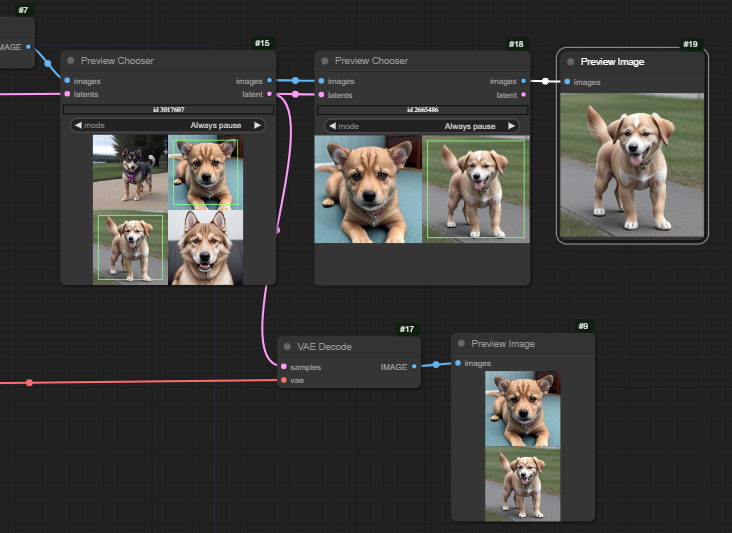
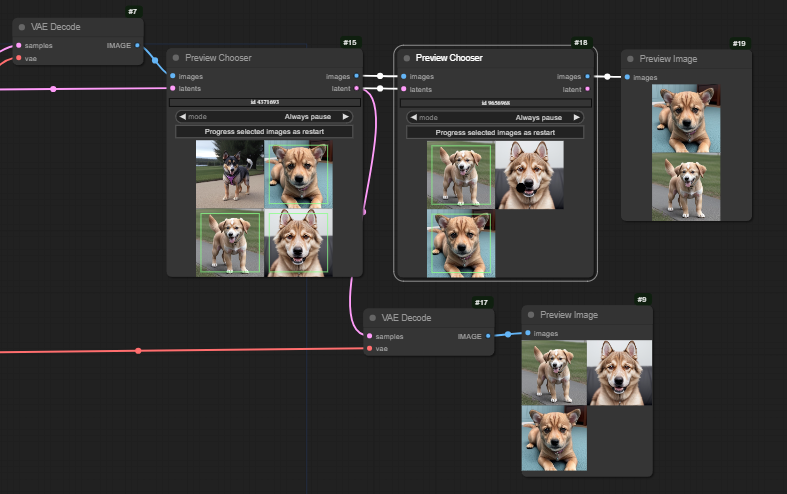
2.5.2 SIMPLE CLICK

diff --git a/js/image_chooser.js b/js/image_chooser.js
@@ -4,14 +4,27 @@ import { api } from "../../../scripts/api.js";
 import { restart_from_here } from "./image_chooser_prompt.js";
 import { hud, FlowState } from "./image_chooser_hud.js";
 import { send_cancel, send_message } from "./image_chooser_messaging.js";
-import { display_preview_images, additionalDrawBackground } from "./image_chooser_preview.js";
+import { display_preview_images, additionalDrawBackground, click_is_in_image } from "./image_chooser_preview.js";
+
+function buttonPressed() {
+    if (FlowState.paused_here(this.node.id) && this.node?.selected?.size>0) {
+        send_message(this.node.widgets[0].value, [...this.node.selected]); 
+    }
+    if (FlowState.idle() && this.node?.selected?.size>0) {
+        restart_from_here(this.node.id).then(() => {send_message(this.node.widgets[0].value, [...this.node.selected])});
+    }
+}
 
 app.registerExtension({
 	name: "cg.custom.image_chooser",
     setup() {
         const draw = LGraphCanvas.prototype.draw;
         LGraphCanvas.prototype.draw = function() {
-            hud.update();
+            if (hud.update()) {
+                app.graph._nodes.forEach((node)=> {
+                    if (node.send_button_widget) { node.send_button_widget.updateLabel(); }
+                })
+            }
             draw.apply(this,arguments);
         }
 
@@ -33,89 +46,68 @@ app.registerExtension({
         }
         api.addEventListener("early-image-handler", earlyImageHandler);
     },
+
     async nodeCreated(node) {
         if (node?.comfyClass === "Preview Chooser") {
+            /* Don't allow imageIndex to be set - this stops images jumping to the front when clicked */
             Object.defineProperty(node, 'imageIndex', {
                 get : function() { return null; },
-                set : function( v ) {}
+                set : function( v ) { }
             })
+            /* A property defining the top of the image when there is just one */
+            Object.defineProperty(node, 'imagey', {
+                get : function() { return this.widgets[this.widgets.length-1].last_y+LiteGraph.NODE_WIDGET_HEIGHT; }
+            })
+
+            /* Capture clicks */
+            const org_onMouseDown = node.onMouseDown;
+            node.onMouseDown = function( e, pos, canvas ) {
+                if (e.isPrimary) {
+                    const i = click_is_in_image(node, pos);
+                    if (i>=0) { this.imageClicked(i); }
+                }
+                return (org_onMouseDown && org_onMouseDown.apply(this, arguments));
+            }
+
+            /*
+            node.buttonPressed = function() {
+                if (FlowState.paused_here(this.node.id) && this.node?.selected?.size>0) {
+                    send_message(this.node.widgets[0].value, [...this.node.selected]); 
+                } else if (FlowState.idle() && this.node?.selected?.size>0) {
+                    restart_from_here(this.node.id).then(() => {send_message(this.node.widgets[0].value, [...this.node.selected])});
+                } 
+            }*/
+
+            /* The button */
+            node.send_button_widget = node.addWidget("button", "", "", buttonPressed)
+            node.send_button_widget.node = node;
+            node.send_button_widget.updateLabel = function () {
+                if (FlowState.paused_here(this.node.id) && this.node?.selected?.size>0) {
+                    this.name = (this.node?.selected?.size>1) ? "Progress selected images" : "Progress selected image";
+                } else if (FlowState.idle() && this.node?.selected?.size>0) {
+                    this.name = (this.node?.selected?.size>1) ? "Progress selected images as restart" : "Progress selected image as restart";
+                } else {
+                    this.name = "";
+                }
+            }
         }
     },
     async beforeRegisterNodeDef(nodeType, nodeData, app) {
         if (nodeType?.comfyClass==="Preview Chooser") {
+
+            /* Code to draw the boxes around selected images */
             const onDrawBackground = nodeType.prototype.onDrawBackground;
             nodeType.prototype.onDrawBackground = function(ctx) {
                 onDrawBackground.apply(this, arguments);
                 additionalDrawBackground(this, ctx);
             }
 
-            const getExtraMenuOptions = nodeType.prototype.getExtraMenuOptions;
-            nodeType.prototype.getExtraMenuOptions = function(_, options) {
-                getExtraMenuOptions?.apply(this,arguments);
-                var imageIndex = (this.imageIndex != null) ? this.imageIndex : this.overIndex;
-                if (!imageIndex && this?.imgs?.length==1) imageIndex = 0;
-                if ((FlowState.paused() && FlowState.here(this.id)) || 
-                    (FlowState.idle()   && this?.imgs?.length>0)) {
-                    if (imageIndex!=null) {
-                        options.unshift(null);
-                        if (this.selected.has(imageIndex) && this.imgs.length>1) {
-                            options.unshift(
-                                {
-                                    content: "Unselect",
-                                    callback: () => { this.selected.delete(imageIndex); this.setDirtyCanvas(true,true); }
-                                },
-                            )
-                        }
-                        if (!this.selected.has(imageIndex) && this.imgs.length>1) {
-                            options.unshift (
-                                {
-                                    content: "Select",
-                                    callback: () => { this.selected.add(imageIndex); this.setDirtyCanvas(true,true);  }
-                                }
-                            )
-                        }
-                        if ((this.selected.size > 0) && FlowState.paused_here(this.id) && this.imgs.length>1) {
-                            options.unshift(
-                                {
-                                    content: (this.selected.size>1) ? "Progress selected images" : "Progress selected image",
-                                    callback: () => { send_message(this.widgets[0].value, [...this.selected]);  }
-                                },
-                            )
-                        }
-                        if (FlowState.paused_here(this.id) && this.imgs.length==1) {
-                            options.unshift(
-                                {
-                                    content: "Progress image" ,
-                                    callback: () => { send_message(this.widgets[0].value, [0]);  }
-                                },
-                            )
-                        }
-                        if ((this.selected.size > 0) && FlowState.idle()) {
-                            options.unshift(
-                                {
-                                    content: (this.selected.size>1) ? "Progress selected images (as restart)" : "Progress selected image (as restart)",
-                                    callback: () => { restart_from_here(this.id).then(() => {send_message(this.widgets[0].value, [...this.selected])});  }
-                                },
-                            )
-                        }
-                        if (this.imgs.length==1 && FlowState.idle()) {
-                            options.unshift(
-                                {
-                                    content: "Progress image (as restart)",
-                                    callback: () => { restart_from_here(this.id).then(() => {send_message(this.widgets[0].value, [0])});  }
-                                },
-                            )
-                        }
-                        options.unshift(null);
-                    }
-                    options.unshift(
-                        {
-                            content: "Cancel this run",
-                            callback: () => { send_cancel(); }
-                        },
-                        null,
-                    );
-                }
+            /* Code to handle clicks on images */
+            nodeType.prototype.imageClicked = function (imageIndex) {
+                if (this.selected.has(imageIndex)) this.selected.delete(imageIndex);
+                else this.selected.add(imageIndex);
+                this.send_button_widget.updateLabel();
+                this.setDirtyCanvas(true,true); 
             }
         }
     },

diff --git a/js/image_chooser_hud.js b/js/image_chooser_hud.js
@@ -2,14 +2,8 @@ import { $el } from "../../../scripts/ui.js";
 import { send_cancel } from "./image_chooser_messaging.js";
 
 class HUD {
-
     constructor() {
         this.span = $el("span", { style: {}, textContent: "" });
-        this.the_cancel_button = $el("button", {
-            textContent: "Cancel",
-            onclick: () => {send_cancel();},
-            style: {  }
-        })
         this.hud = $el("div", {
             style: { 
                 "position": "fixed", 
@@ -20,11 +14,10 @@ class HUD {
                 "opacity":0.8,
             }},
             [
-                this.span, this.the_cancel_button
+                this.span
             ]
         )
         this.span.textContent = "Idle";
-        this.the_cancel_button.style.display = "none";
 
         document.body.append(this.hud);
         this.current_node_id = undefined;
@@ -33,7 +26,7 @@ class HUD {
     }
 
     update() {
-        if (app.runningNodeId==this.current_node_id) return;
+        if (app.runningNodeId==this.current_node_id) return false;
 
         this.current_node_id = app.runningNodeId;
         
@@ -44,13 +37,12 @@ class HUD {
                                             this.class_of_current_node === "Multi Latent Chooser" ||
                                             this.class_of_current_node === "Preview Chooser");
             this.span.textContent = `${FlowState.state()} in ${this.class_of_current_node} (${this.current_node_id}) `;
-            this.the_cancel_button.style.display = "inline";
         } else {
             this.class_of_current_node = undefined;
             this.current_node_is_chooser = false;
             this.span.textContent = "Idle";
-            this.the_cancel_button.style.display = "none";
         }
+        return true;
     }
 }
 
@@ -68,7 +60,7 @@ class FlowState {
         return (FlowState.paused() && FlowState.here(node_id))
     }
     static running() {
-        return (app.runningNodeId>=0);
+        return (!FlowState.idle());
     }
     static here(node_id) {
         return (app.runningNodeId==node_id);
@@ -76,8 +68,7 @@ class FlowState {
     static state() {
         if (FlowState.paused()) return "Paused";
         if (FlowState.running()) return "Running";
-        if (FlowState.idle()) return "Idle";
-        return "?";
+        return "Idle";
     }
 }
 

diff --git a/js/image_chooser_preview.js b/js/image_chooser_preview.js
@@ -27,14 +27,34 @@ function showImages(node, urls) {
 
 function additionalDrawBackground(node, ctx) {
     node?.selected?.forEach((s) => {
+        const padding = 8;
+        var rect;
         if (node.imageRects) {
-            const rect = node.imageRects[s];
-            const padding = 8;
-            ctx.strokeStyle = "#8F8";
-            ctx.lineWidth = 1;
-            ctx.strokeRect(rect[0]+padding, rect[1]+padding, rect[2]-padding*2, rect[3]-padding*2);
-        } 
+            rect = node.imageRects[s];
+        } else {
+            const y = node.imagey;
+            rect = [padding,y+padding,node.size[0]-2*padding,node.size[1]-y-2*padding];
+        }
+        ctx.strokeStyle = "#8F8";
+        ctx.lineWidth = 1;
+        ctx.strokeRect(rect[0]+padding, rect[1]+padding, rect[2]-padding*2, rect[3]-padding*2);
     })
 }
 
-export { display_preview_images, additionalDrawBackground }
+function click_is_in_image(node, pos) {
+    if (node.imgs?.length>1) {
+        for (var i = 0; i<node.imageRects.length; i++) {
+            const dx = pos[0] - node.imageRects[i][0];
+            const dy = pos[1] - node.imageRects[i][1];
+            if ( dx > 0 && dx < node.imageRects[i][2] &&
+                dy > 0 && dy < node.imageRects[i][3] ) {
+                    return i;
+                }
+        }
+    } else if (node.imgs?.length==1) {
+        if (pos[1]>node.imagey) return 0;
+    }
+    return -1;
+}
+
+export { display_preview_images, additionalDrawBackground, click_is_in_image }

diff --git a/__init__.py b/__init__.py
@@ -12,7 +12,7 @@ NODE_CLASS_MAPPINGS = {
 
 __all__ = ['NODE_CLASS_MAPPINGS']
 
-IP_VERSION = "2.5.1"
+IP_VERSION = "2.5.2"
 CLEAN = False
 
 application_root_directory = os.path.dirname(folder_paths.__file__)

diff --git a/README.md b/README.md
@@ -22,7 +22,7 @@ cd [path to ComfyUI]/custom_nodes/cg-image-picker
 git pull
 ```
 
-# Update 2.5 
+# Update 2.5.2
 
 Most of the old nodes have gone away, replaced with a single node that combines image preview with single- or multi-pick chooser, 'restart from here', and the HUD.
 
@@ -38,20 +38,13 @@ This uses only regular nodes and the Unified Chooser. If you're going to try the
 
 ## Notes...
 
-This is part of that workflow
-
-
-
-There is just one node now, the `Preview Chooser`. It has one widget control, mode - this just determines how the node behaves when there is only a single image.
-
-When the workflow pauses in the `Preview Chooser`, you can right-click on the images to select / unselect them - selected images are marked with a green box. When there are one or more images selected, you can `Progress selected images` to send them out. You can also cancel the run from the right-click menu.
+When the workflow pauses in the `Preview Chooser`, you click on the images to select / unselect them - selected images are marked with a green box. When there are one or more images selected, you can `Progress selected images` to send them out. You can cancel the run from the right-click menu on the background canvas.
 
 Once the run finishes you can `Progress... (as restart)` to send one or more images on from the node (which has 'stashed' them).
 
 You should always have the image input connected; if you have the latent input connected, the same latents are output as images (in the same order - which is actually the order in which you selected them). I *very strongly* suggest that you always pass the latents through the `Preview Chooser` - the order of node execution, and the ability to restart, are much more reliable if you do.
 
 As you can see from the workflow, it is possible now to have multiple choosers, and to mix and match image and latent choosers.
-
 
 ## No, you can't change other widgets while it's waiting (but you can restart)
 
@@ -63,19 +56,9 @@ The exception is the chooser nodes themselves. They communicate directly with th
 
 But you *can* change widgets and then do a `Progress... (as restart)`
 
+## Fabric node?
 
-
-## WIP - if you rely on it then I suggest you go back to 
-
-This is a WIP - in `utilites/control/_testing` there is `Multi Latent Chooser`. This is designed to work with [Fabric](https://github.com/ssitu/ComfyUI_fabric), but you might find other uses.
-
-![multi](docs/multi.png)
-
-It takes a *batch* of latents, and you can enter two comma separated lists of choices - 'positive' and 'negative'. The outputs are each a batch of latents just containing the ones you selected. If either list is empty, a single zero latent of the input shape is output (to avoid errors downstream).
-
-If you select the mode `Accumulate` then the positive and negative selections from the last run will also be included - so you can accumulate latents that are good or bad over multiple runs. The text at the bottom shows how many latents have been sent on each output.
-
-*This may be broken at the moment* - if so, and if you are using it, please revert to commit 9505f3ce99b40375121eeaaccf43f1153a032304:
+The node built for Fabric (which produces +ve and -ve outputs) is currently on hold (it will come back soon!) - if you really need it, please revert to commit 9505f3ce99b40375121eeaaccf43f1153a032304. The version in this build *might* work but is entirely untested.
 
 ```
 cd cg-image-picker
